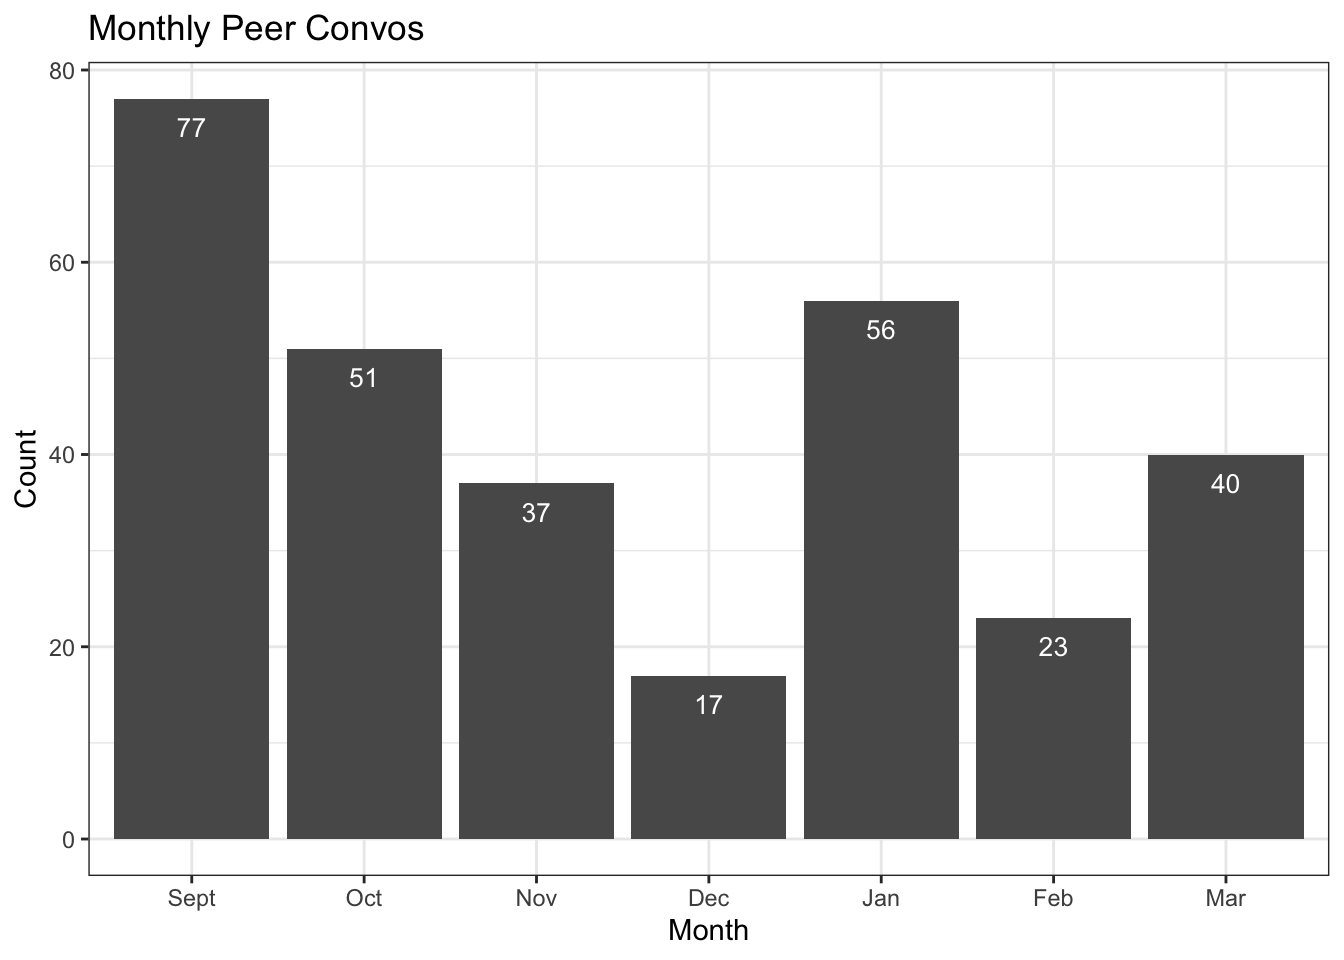
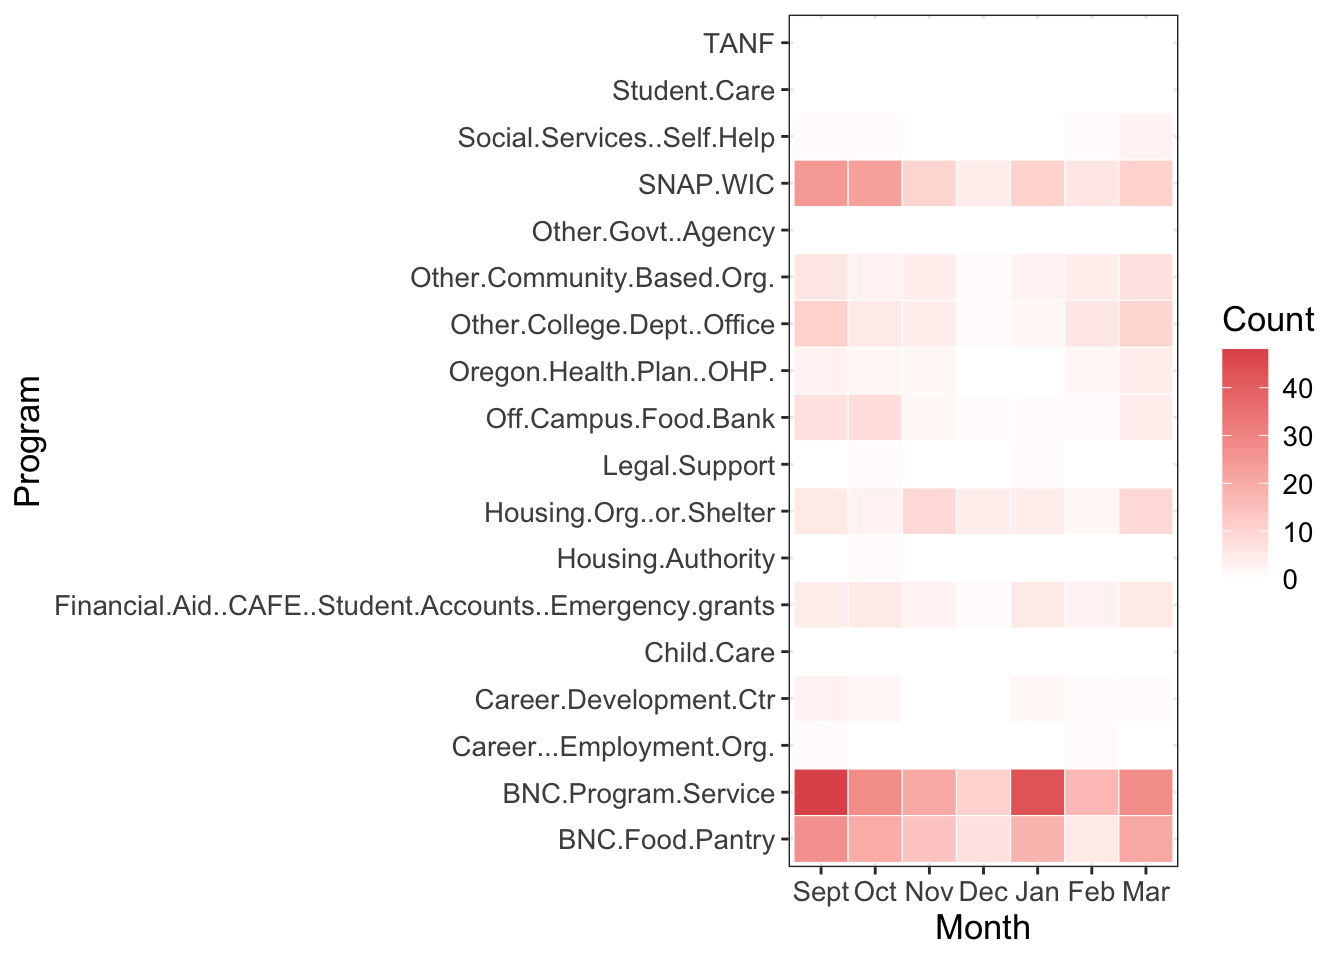
Rename and graph titles

diff --git a/PeerConvos.html b/PeerConvos.html
@@ -83,7 +83,7 @@ ul.task-list li input[type="checkbox"] {
 <div class="cell-output-display">
 <div>
 <figure class="figure">
-<p><img src="PeerConvos_files/figure-html/unnamed-chunk-4-1.png" class="img-fluid figure-img" width="672"></p>
+<p><img src="PeerConvos_files/figure-html/Monthly%20Peer%20Convos-1.png" class="img-fluid figure-img" width="672"></p>
 </figure>
 </div>
 </div>
@@ -97,7 +97,7 @@ ul.task-list li input[type="checkbox"] {
 <div class="cell-output-display">
 <div>
 <figure class="figure">
-<p><img src="PeerConvos_files/figure-html/unnamed-chunk-5-1.png" class="img-fluid figure-img" width="672"></p>
+<p><img src="PeerConvos_files/figure-html/Summary%20of%20Referrals-1.png" class="img-fluid figure-img" width="672"></p>
 </figure>
 </div>
 </div>
@@ -112,7 +112,7 @@ ul.task-list li input[type="checkbox"] {
 <div class="cell-output-display">
 <div>
 <figure class="figure">
-<p><img src="PeerConvos_files/figure-html/unnamed-chunk-6-1.png" class="img-fluid figure-img" width="672"></p>
+<p><img src="PeerConvos_files/figure-html/Food%20Program%20Referrals-1.png" class="img-fluid figure-img" width="672"></p>
 </figure>
 </div>
 </div>
@@ -124,7 +124,7 @@ ul.task-list li input[type="checkbox"] {
 <div class="cell-output-display">
 <div>
 <figure class="figure">
-<p><img src="PeerConvos_files/figure-html/unnamed-chunk-7-1.png" class="img-fluid figure-img" width="672"></p>
+<p><img src="PeerConvos_files/figure-html/Housing%20Program%20Referrals-1.png" class="img-fluid figure-img" width="672"></p>
 </figure>
 </div>
 </div>
@@ -136,7 +136,7 @@ ul.task-list li input[type="checkbox"] {
 <div class="cell-output-display">
 <div>
 <figure class="figure">
-<p><img src="PeerConvos_files/figure-html/unnamed-chunk-8-1.png" class="img-fluid figure-img" width="672"></p>
+<p><img src="PeerConvos_files/figure-html/unnamed-chunk-4-1.png" class="img-fluid figure-img" width="672"></p>
 </figure>
 </div>
 </div>
@@ -151,7 +151,7 @@ ul.task-list li input[type="checkbox"] {
 <div class="cell-output-display">
 <div>
 <figure class="figure">
-<p><img src="PeerConvos_files/figure-html/unnamed-chunk-10-1.png" class="img-fluid figure-img" width="672"></p>
+<p><img src="PeerConvos_files/figure-html/Summary%20of%20Topics-1.png" class="img-fluid figure-img" width="672"></p>
 </figure>
 </div>
 </div>
@@ -163,7 +163,7 @@ ul.task-list li input[type="checkbox"] {
 <div class="cell-output-display">
 <div>
 <figure class="figure">
-<p><img src="PeerConvos_files/figure-html/unnamed-chunk-11-1.png" class="img-fluid figure-img" width="672"></p>
+<p><img src="PeerConvos_files/figure-html/Three%20Main%20Topics-1.png" class="img-fluid figure-img" width="672"></p>
 </figure>
 </div>
 </div>
@@ -175,7 +175,7 @@ ul.task-list li input[type="checkbox"] {
 <div class="cell-output-display">
 <div>
 <figure class="figure">
-<p><img src="PeerConvos_files/figure-html/unnamed-chunk-12-1.png" class="img-fluid figure-img" width="672"></p>
+<p><img src="PeerConvos_files/figure-html/unnamed-chunk-6-1.png" class="img-fluid figure-img" width="672"></p>
 </figure>
 </div>
 </div>